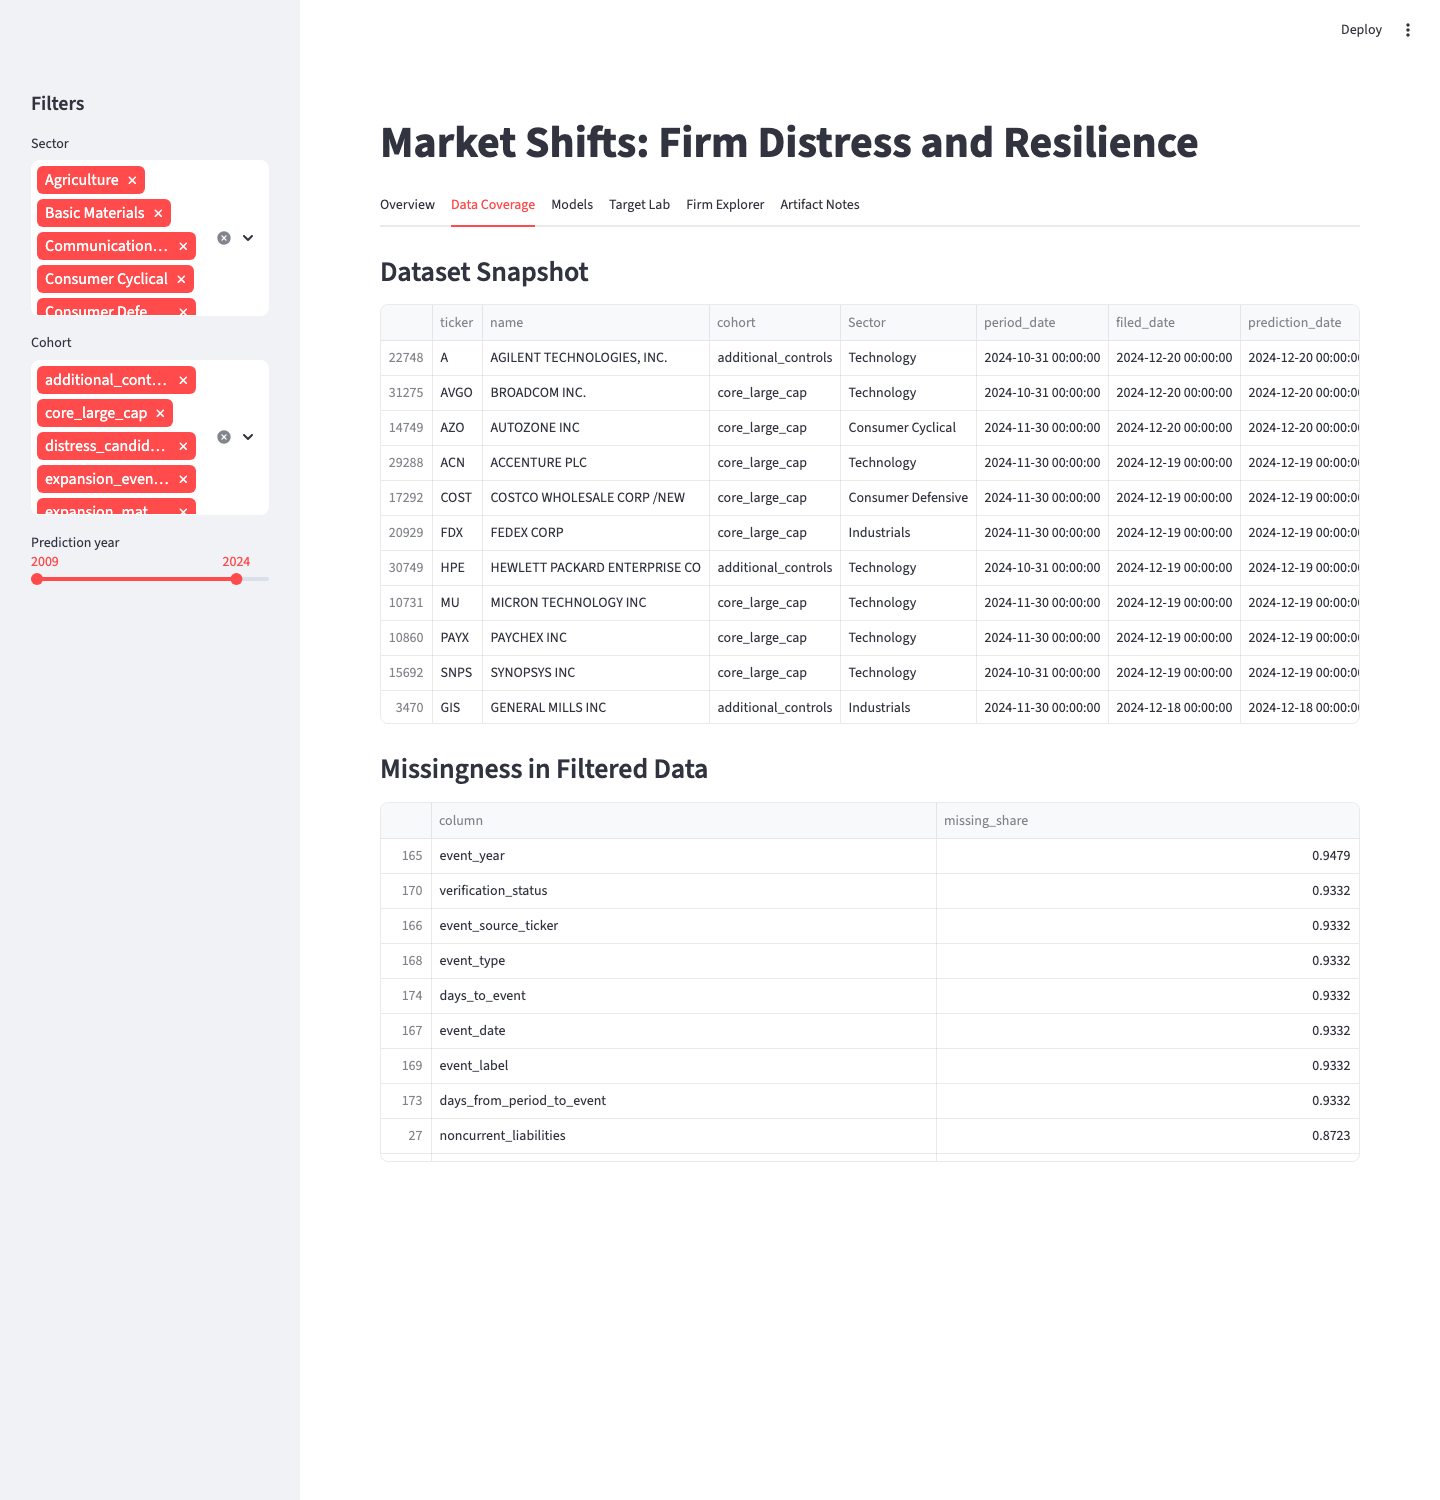
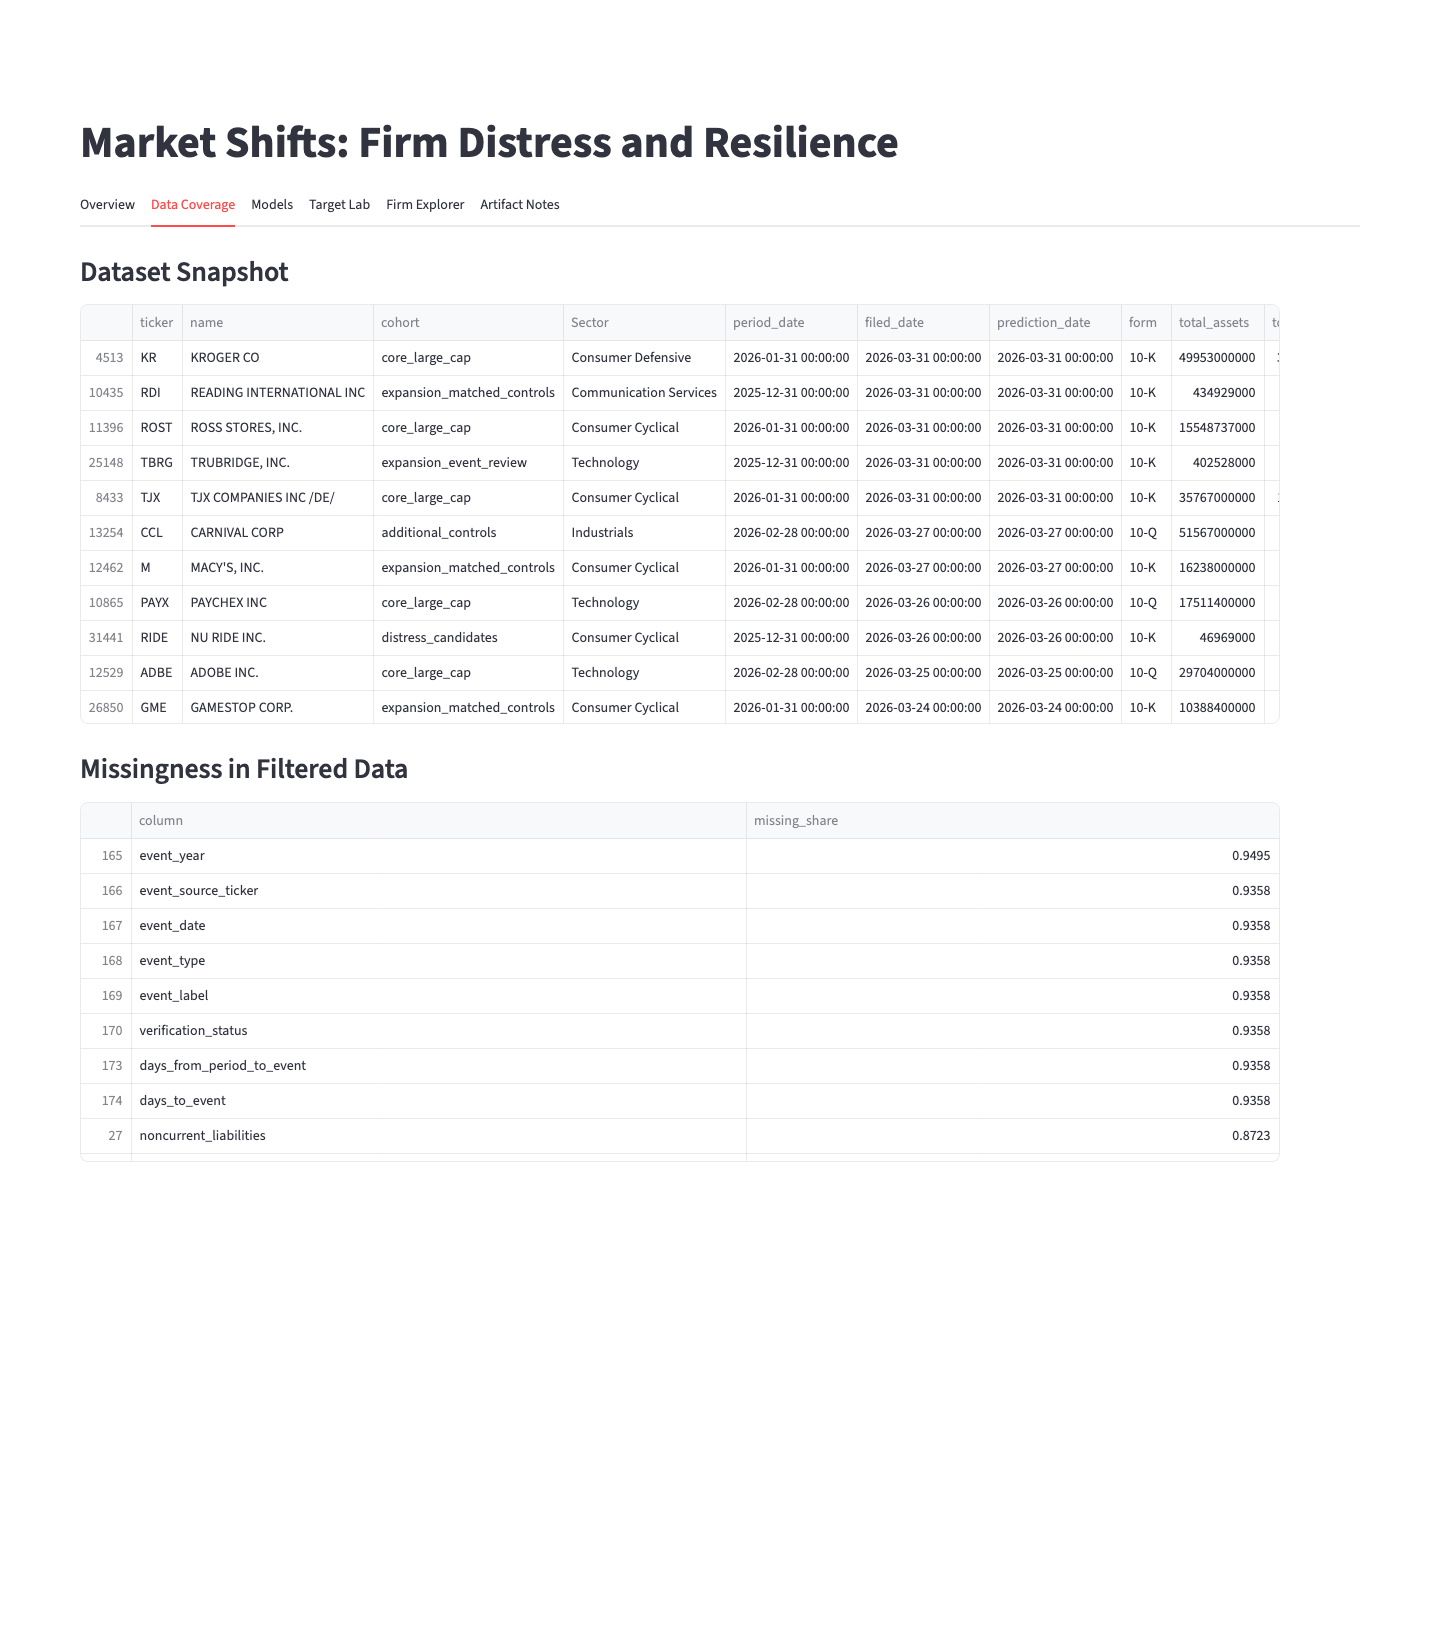
Refresh dashboard screenshots for full panel default

diff --git a/app/dashboard.py b/app/dashboard.py
@@ -724,7 +724,7 @@ with st.sidebar:
     selected_cohorts = st.multiselect("Cohort", cohorts, default=cohorts)
     min_year = int(panel["prediction_year"].min())
     max_year = int(panel["prediction_year"].max())
-    year_range = st.slider("Prediction year", min_year, max_year, (max(min_year, 2009), min(max_year, 2024)))
+    year_range = st.slider("Prediction year", min_year, max_year, (max(min_year, 2009), max_year))
 
 filtered = panel[
     panel["Sector"].isin(selected_sectors)
